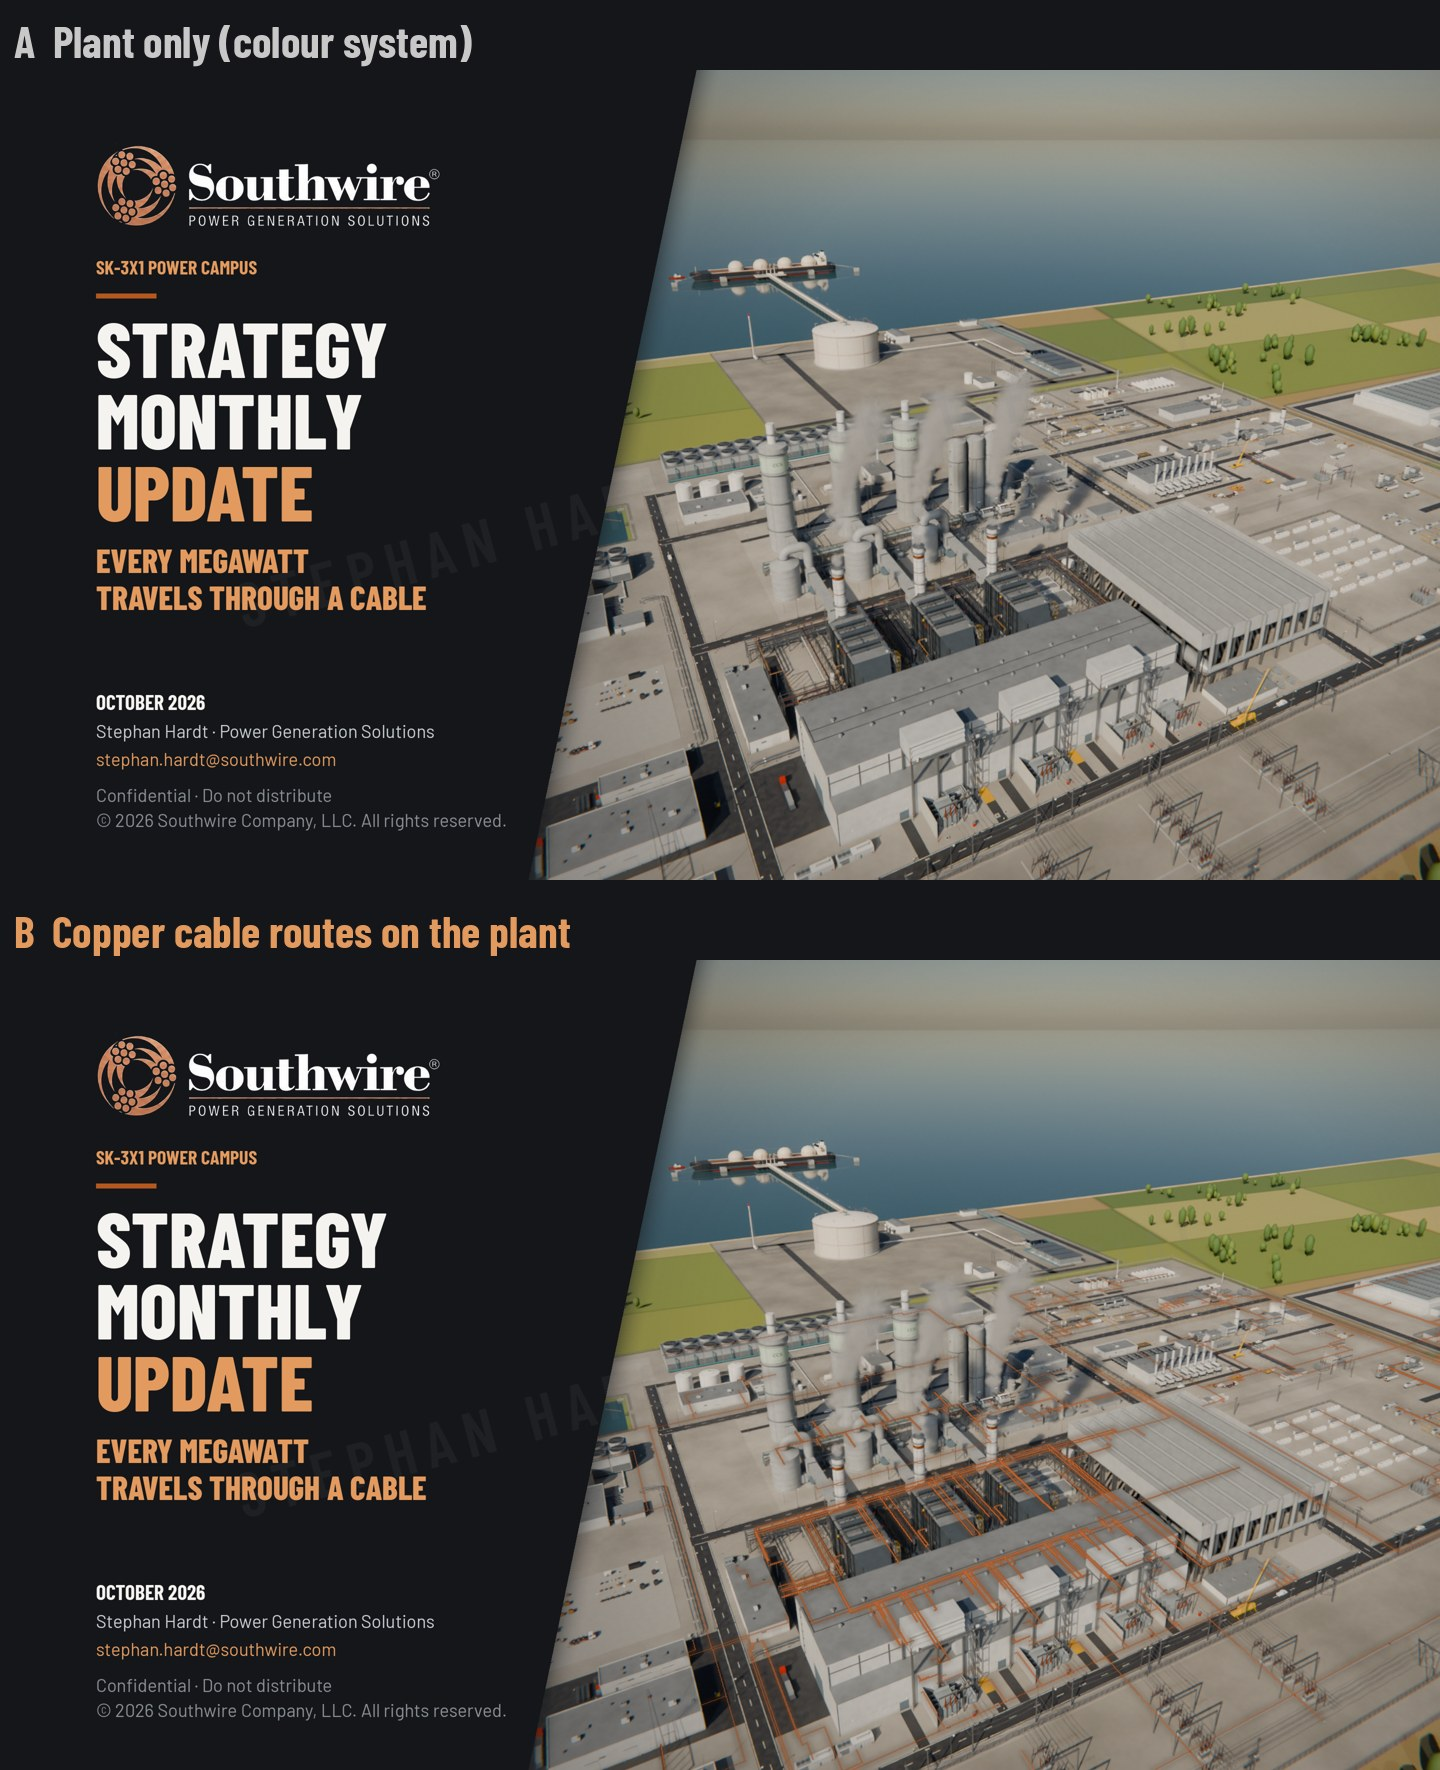
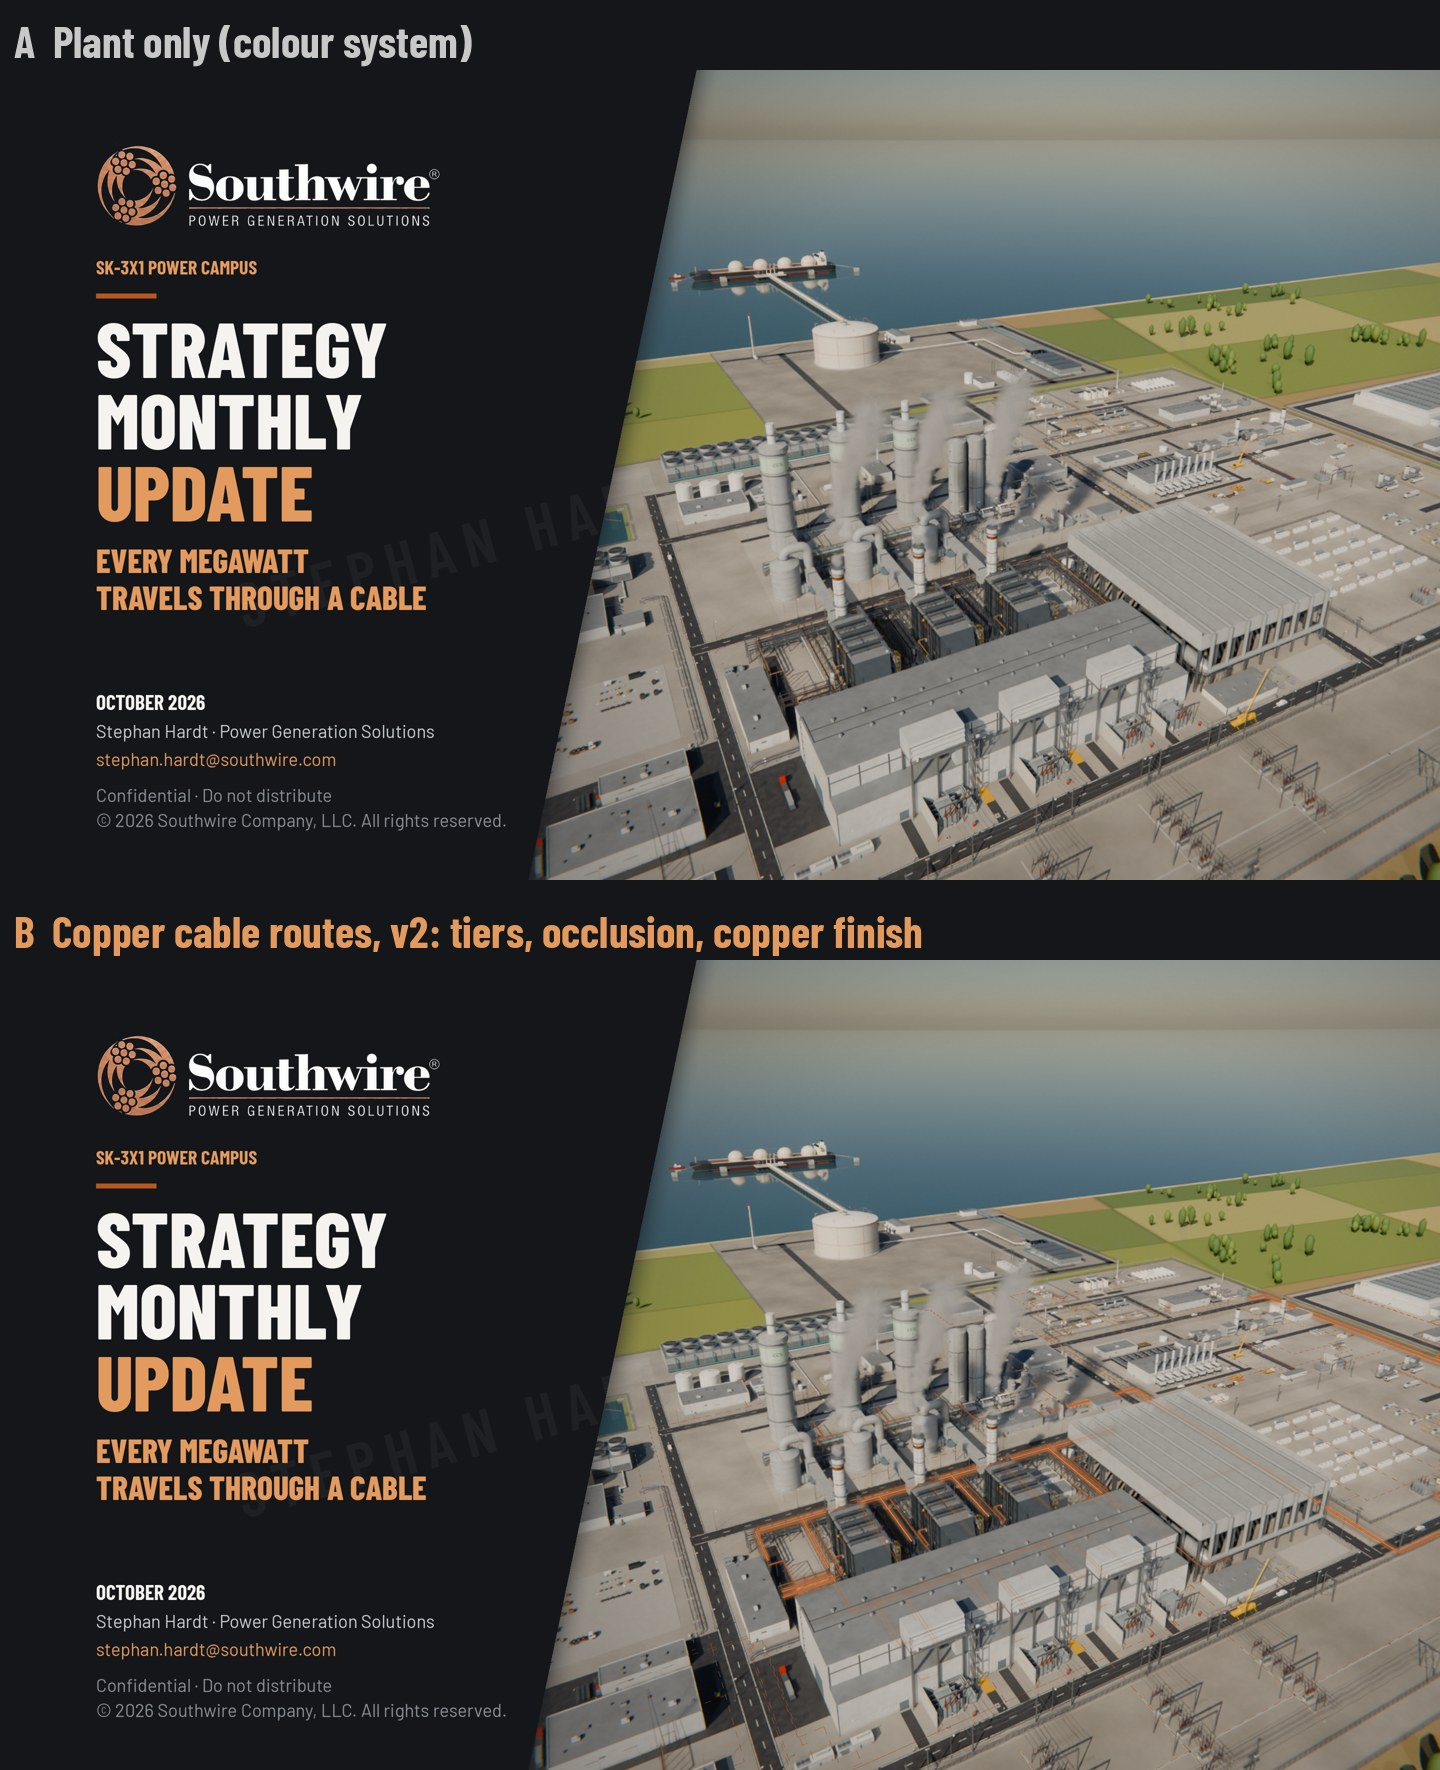
Cable overlay v2: spine / feeder / buried tiers, line-of-sight occlusion against the plant, burnished copper with glow, supersampled
Claude-Session: https://claude.ai/code/session_01EHxHxmYsdzpzXyCp3b43B1

diff --git a/plant/blender/cable_overlay.py b/plant/blender/cable_overlay.py
@@ -1,81 +1,143 @@
-"""Copper cable overlay: the model's cable routes (tray, duct bank, buried cable, HV cable, trenches) projected through
-a hero camera onto its render and drawn as a soft copper glow. The brand colour goes on the cable, the product, while
-the plant itself stays realistic.
+"""Copper cable overlay: the model's cable routes projected through a hero camera onto its render, so the brand colour
+sits on the cable (the product) and the plant itself stays realistic.
+
+Delivery:
+- three tiers: the power spine (MV tray, 230 kV cable) bold with a copper glow; feeders (LV / control tray) finer;
+  buried runs (duct banks, direct-buried cable, trenches) thin and dashed;
+- occlusion: every sample along a route is tested against the plant's solid volumes (buildings, HRSGs, tanks,
+  equipment) on its line of sight to the camera; hidden stretches fall back to a faint ghost line;
+- burnished copper core, warm highlight and soft glow, drawn at 3x and filtered down for clean lines.
 
     python blender/cable_overlay.py IN.png OUT.png [CAMERA_KEY]      # default camera SC1 (Strategy cover)
 """
 import json
 import math
 import os
+import re
 import sys
 
-from PIL import Image, ImageChops, ImageDraw, ImageFilter
+import numpy as np
+from PIL import Image, ImageDraw, ImageFilter
 
 HERE = os.path.dirname(os.path.abspath(__file__))
 PLANT = os.path.dirname(HERE)
-sys.path.insert(0, HERE)
+sys.path.insert(0, PLANT)
 
-CABLE = {"mv_tray": 1.0, "lv_tray": .8, "control_tray": .7, "hv_cable": 1.0, "duct_bank": .75, "mvlv_cable": .6,
-         "cable_trench": .7}
-COPPER = (214, 120, 60)          # halo
-LINE = (196, 96, 40)             # Southwire copper
+TIER = {"mv_tray": "spine", "hv_cable": "spine", "lv_tray": "feeder", "control_tray": "feeder",
+        "duct_bank": "buried", "mvlv_cable": "buried", "cable_trench": "buried"}
+# (core width px at 1830 wide, core alpha, glow width, glow alpha)
+STYLE = {"spine": (4.2, 1.0, 16, .55), "feeder": (2.2, .85, 8, .3), "buried": (1.6, .7, 0, 0)}
+CORE = (170, 86, 42)          # burnished copper (Southwire)
+HI = (246, 190, 140)          # warm highlight along the spine
+GLOW = (224, 132, 68)
+GHOST = .16                   # alpha factor where the run is hidden behind the plant
+SS = 3                        # supersampling
 
 
 def camera(key):
-    import re
     src = open(os.path.join(HERE, "pro_look.py")).read()
     m = re.search(r'k="%s".*?eye=\(([^)]*)\), target=\(([^)]*)\), lens=([\d.]+)' % key, src, re.S)
-    eye = [float(v) for v in m.group(1).split(",")]
-    tgt = [float(v) for v in m.group(2).split(",")]
-    return eye, tgt, float(m.group(3))
+    return ([float(v) for v in m.group(1).split(",")], [float(v) for v in m.group(2).split(",")], float(m.group(3)))
 
 
 def projector(eye, tgt, lens, W, H):
-    sub = lambda a, b: [a[i] - b[i] for i in range(3)]
-    dot = lambda a, b: sum(a[i] * b[i] for i in range(3))
-    cross = lambda a, b: [a[1] * b[2] - a[2] * b[1], a[2] * b[0] - a[0] * b[2], a[0] * b[1] - a[1] * b[0]]
-    norm = lambda a: [v / math.sqrt(dot(a, a)) for v in a]
-    fwd = norm(sub(tgt, eye))
-    right = norm(cross(fwd, [0, 0, 1]))
-    up = cross(right, fwd)
+    eye, tgt = np.array(eye), np.array(tgt)
+    fwd = (tgt - eye) / np.linalg.norm(tgt - eye)
+    right = np.cross(fwd, [0, 0, 1.0])
+    right /= np.linalg.norm(right)
+    up = np.cross(right, fwd)
     k = lens / 36.0 * max(W, H)                       # sensor fit AUTO: the 36 mm sensor spans the longer side
 
-    def p(pt):
-        d = sub(pt, eye)
-        z = dot(d, fwd)
-        if z <= 1:
-            return None
-        return (W / 2 + dot(d, right) / z * k, H / 2 - dot(d, up) / z * k)
+    def p(P):
+        d = P - eye
+        z = d @ fwd
+        return np.stack([W / 2 + (d @ right) / z * k, H / 2 - (d @ up) / z * k], -1), z
     return p
+
+
+def solids(model):
+    """Axis-aligned volumes that hide cable: tall parts of buildings and equipment (not the trays themselves)."""
+    from realism import _pbox
+    skip_layers = ("ROUTES", "UNDERGROUND", "SITE")
+    out = []
+    for p in model["parts"]:
+        if any(s in p["layer"] for s in skip_layers) or p["color"] in ("steel", "grating", "rail", "stair", "pipe",
+                                                                         "cable", "cable_mv", "cable_tc", "cable_mc"):
+            continue
+        b = _pbox(p)
+        area = (b[3] - b[0]) * (b[4] - b[1])
+        if (b[5] - b[2] < 6 and area < 4000) or (area < 150 and b[5] - b[2] < 20):
+            continue                                   # small / flat bits don't hide cable; roofs and walls do
+        out.append(b)
+    return np.array(out)
+
+
+def occluded(eye, P, B):
+    """For each sample P (n,3): is the segment eye->P blocked by any box in B (m,6)? Slab test, vectorised."""
+    eye = np.array(eye)
+    hid = np.zeros(len(P), bool)
+    for i in range(0, len(P), 4000):
+        Q = P[i:i + 4000]
+        d = Q - eye                                    # (n,3)
+        inv = 1.0 / np.where(np.abs(d) < 1e-9, 1e-9, d)
+        t0 = (B[None, :, 0:3] - eye) * inv[:, None, :]
+        t1 = (B[None, :, 3:6] - eye) * inv[:, None, :]
+        tmin = np.minimum(t0, t1).max(-1)
+        tmax = np.maximum(t0, t1).min(-1)
+        hit = (tmax >= np.maximum(tmin, 0)) & (tmin < .985)   # blocked before reaching the cable
+        hid[i:i + 4000] = hit.any(-1)
+    return hid
 
 
 def overlay(src, out, key="SC1"):
     model = json.load(open(os.path.join(PLANT, "sk3x1_model.json")))
     im = Image.open(src).convert("RGB")
     W, H = im.size
-    proj = projector(*camera(key), W, H)
-    s = W / 1830
-    line = Image.new("RGBA", (W, H), (0, 0, 0, 0))
-    halo = Image.new("RGBA", (W, H), (0, 0, 0, 0))
-    dl, dh = ImageDraw.Draw(line), ImageDraw.Draw(halo)
+    eye, tgt, lens = camera(key)
+    proj = projector(eye, tgt, lens, W * SS, H * SS)
+    s = W / 1830 * SS
+    B = solids(model)
+    layers = {t: (Image.new("RGBA", (W * SS, H * SS)), Image.new("RGBA", (W * SS, H * SS))) for t in STYLE}
+    hi = Image.new("RGBA", (W * SS, H * SS))
+    dhi = ImageDraw.Draw(hi)
     for r in model["routes"]:
-        wgt = CABLE.get(r["type"])
-        if not wgt:
+        tier = TIER.get(r["type"])
+        if not tier:
             continue
-        buried = r.get("z", 0) < 0
-        z = max(r.get("z", 0), .3)                    # buried runs drawn on the ground they run under
-        pts = [proj((x, y, z)) for x, y in r["points"]]
-        a_line = int(255 * (.62 if buried else .95))
+        z = max(r.get("z", 0), .4)
+        pts = np.array([[x, y, z] for x, y in r["points"]], float)
+        # densify to ~6 ft samples so occlusion and dashes follow the run
+        S = []
         for a, b in zip(pts, pts[1:]):
-            if a and b:
-                dh.line([a, b], fill=COPPER + (int(150 * wgt),), width=max(3, int(11 * s * wgt)))
-                dl.line([a, b], fill=LINE + (a_line,), width=max(2, int(3.6 * s * wgt)))
-    halo = halo.filter(ImageFilter.GaussianBlur(6 * s))
-    res = im.convert("RGBA")
-    res.alpha_composite(halo)
-    res.alpha_composite(line.filter(ImageFilter.GaussianBlur(.6 * s)))
-    res = res.convert("RGB")
-    res.save(out)
+            n = max(1, int(np.linalg.norm(b - a) / 6))
+            S += [a + (b - a) * k / n for k in range(n)]
+        S.append(pts[-1])
+        S = np.array(S)
+        hid = occluded(eye, S + [0, 0, 1.5], B)
+        xy, zc = proj(S)
+        cw, ca, gw, ga = STYLE[tier]
+        core, glow = layers[tier]
+        dc, dg = ImageDraw.Draw(core), ImageDraw.Draw(glow)
+        for k in range(len(S) - 1):
+            if zc[k] <= 1 or zc[k + 1] <= 1:
+                continue
+            if tier == "buried" and (k // 2) % 2:      # dashes for buried runs
+                continue
+            f = GHOST if (hid[k] or hid[k + 1]) else 1.0
+            seg = [tuple(xy[k]), tuple(xy[k + 1])]
+            dc.line(seg, fill=CORE + (int(255 * ca * f),), width=max(1, int(cw * s)))
+            if gw:
+                dg.line(seg, fill=GLOW + (int(255 * ga * f),), width=max(1, int(gw * s)))
+            if tier == "spine" and f == 1.0:
+                dhi.line(seg, fill=HI + (200,), width=max(1, int(1.3 * s)))
+    res = im.resize((W * SS, H * SS), Image.LANCZOS).convert("RGBA")
+    for t in ("buried", "feeder", "spine"):
+        core, glow = layers[t]
+        if STYLE[t][2]:
+            res.alpha_composite(glow.filter(ImageFilter.GaussianBlur(7 * s / SS * SS / 2)))
+        res.alpha_composite(core)
+    res.alpha_composite(hi)
+    res.convert("RGB").resize((W, H), Image.LANCZOS).save(out)
     return out
 
 
